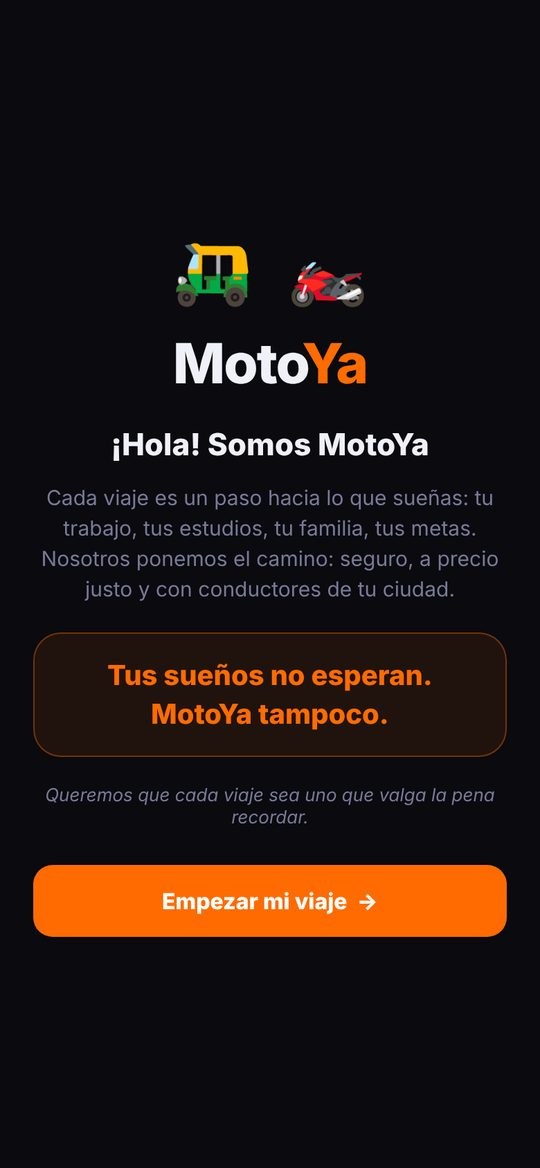
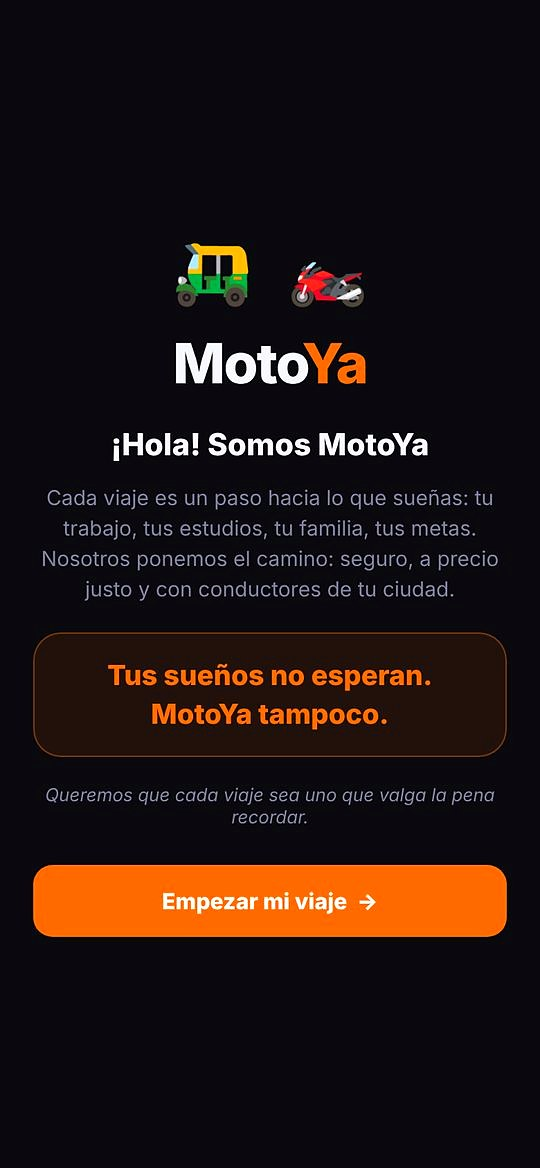
Capturas nuevas y celular con flechas

diff --git a/index.html b/index.html
@@ -107,6 +107,8 @@
             <span class="cam"></span>
             <div class="screen screens" id="screens" tabindex="0"><img src="img/app-bienvenida.jpg" width="540" height="1169" alt="Pantalla de bienvenida de la app MotoYa" loading="lazy"><img src="img/app-pasajero.jpg" width="540" height="1169" alt="Pantalla del pasajero: mapa, destino y botón para pedir la moto" loading="lazy"></div>
           </div>
+          <button type="button" class="phone-arrow prev" aria-label="Pantalla anterior"><svg viewBox="0 0 24 24" aria-hidden="true"><path d="M15 5l-7 7 7 7" stroke="currentColor" stroke-width="2.6" fill="none" stroke-linecap="round" stroke-linejoin="round"/></svg></button>
+          <button type="button" class="phone-arrow next" aria-label="Pantalla siguiente"><svg viewBox="0 0 24 24" aria-hidden="true"><path d="M9 5l7 7-7 7" stroke="currentColor" stroke-width="2.6" fill="none" stroke-linecap="round" stroke-linejoin="round"/></svg></button>
           <div class="phone-dots" role="group" aria-label="Elegir pantalla"><button type="button" aria-label="Ver pantalla 1" aria-current="true"></button><button type="button" aria-label="Ver pantalla 2"></button></div>
         </div>
       </div>
@@ -263,6 +265,18 @@
       var io = new IntersectionObserver(function (es) { es.forEach(function (e) { if (e.isIntersecting && e.intersectionRatio > 0.6) { cur = imgs.indexOf(e.target); dots.forEach(function (d, k) { d.setAttribute("aria-current", k === cur ? "true" : "false"); }); } }); }, { root: box, threshold: [0.6] });
       imgs.forEach(function (im) { io.observe(im); });
       dots.forEach(function (d, k) { d.addEventListener("click", function () { go(k); restart(); }); });
+      document.querySelector(".phone-arrow.prev").addEventListener("click", function () { go(cur - 1); restart(); });
+      document.querySelector(".phone-arrow.next").addEventListener("click", function () { go(cur + 1); restart(); });
+      box.addEventListener("keydown", function (e) { if (e.key === "ArrowLeft") { go(cur - 1); restart(); } if (e.key === "ArrowRight") { go(cur + 1); restart(); } });
+      // Arrastrar con el mouse (en el celular ya se desliza con el dedo)
+      var dragX = null;
+      box.addEventListener("pointerdown", function (e) { if (e.pointerType === "mouse") { dragX = e.clientX; stop(); e.preventDefault(); } });
+      window.addEventListener("pointerup", function (e) {
+        if (dragX === null) return;
+        var dx = e.clientX - dragX; dragX = null;
+        if (Math.abs(dx) > 30) go(cur + (dx < 0 ? 1 : -1));
+        restart();
+      });
       function start() { if (!still && !t) t = setInterval(function () { go(cur + 1); }, 4500); }
       function stop() { clearInterval(t); t = null; }
       function restart() { stop(); start(); }

diff --git a/css/home.css b/css/home.css
@@ -63,6 +63,13 @@
 .screens { display: flex; overflow-x: auto; scroll-snap-type: x mandatory; scrollbar-width: none; overscroll-behavior-x: contain; }
 .screens::-webkit-scrollbar { display: none; }
 .device .screens img { flex: 0 0 100%; scroll-snap-align: start; }
+.phone { position: relative; max-width: 330px; margin-inline: auto; }
+.screens img { -webkit-user-drag: none; user-select: none; }
+.phone-arrow { position: absolute; top: 46%; width: 44px; height: 44px; border-radius: 50%; border: 0; background: var(--paper); color: var(--ink); box-shadow: 0 4px 14px rgba(0,0,0,.18); display: grid; place-items: center; cursor: pointer; z-index: 3; }
+.phone-arrow svg { width: 20px; height: 20px; }
+.phone-arrow.prev { left: -22px; }
+.phone-arrow.next { right: -22px; }
+.phone-arrow:hover { background: var(--orange); }
 .phone-dots { display: flex; justify-content: center; gap: 8px; margin-top: 18px; }
 .phone-dots button { width: 26px; height: 6px; border-radius: 3px; border: 0; padding: 0; background: #D4D4CE; cursor: pointer; }
 .phone-dots button[aria-current="true"] { background: var(--orange); }
